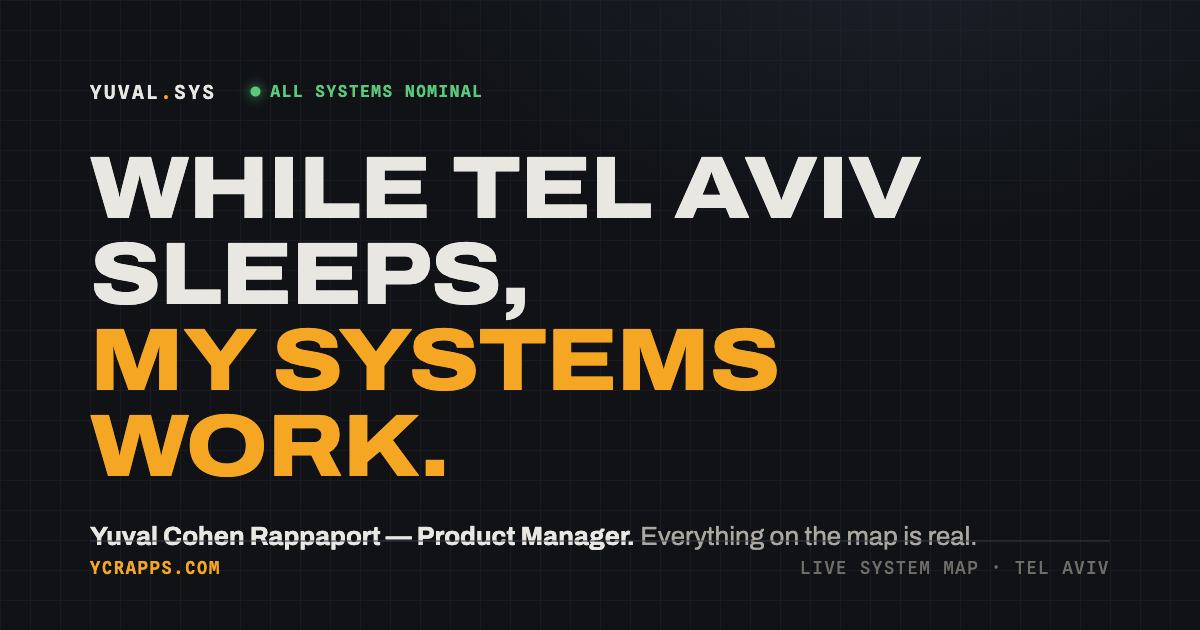
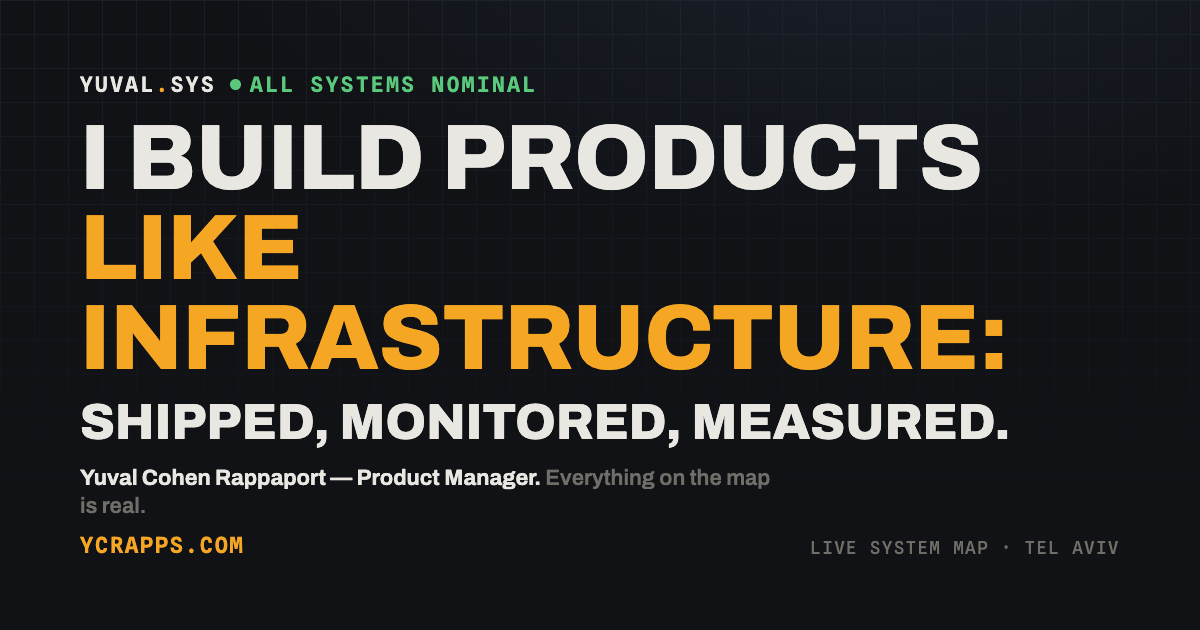
fix(seo): regenerate og.png to current hero + cache-bust the image URL
Link-preview card now matches the live YUVAL.SYS hero ('I build products
like infrastructure: shipped, monitored, measured') instead of the old
tagline. Bumped og:image/twitter:image to ?v=2 so social platforms
(WhatsApp/LinkedIn) re-fetch instead of serving a stale cached preview.
Reproducible source kept in scripts/og-card.html (rsync-excluded).

Changed region(s): [[0.0617, 0.1206, 0.925, 0.9349]]

diff --git a/scripts/og-card.html b/scripts/og-card.html
@@ -1,0 +1,62 @@
+<!doctype html>
+<html lang="en">
+<head>
+<meta charset="utf-8">
+<link rel="preconnect" href="https://fonts.googleapis.com">
+<link rel="preconnect" href="https://fonts.gstatic.com" crossorigin>
+<link href="https://fonts.googleapis.com/css2?family=Archivo:wght@600;700;800&family=Spline+Sans+Mono:wght@500;600&display=swap" rel="stylesheet">
+<style>
+  :root{
+    --bg:#101216; --bg-deep:#0B0D10; --line:#262B35; --tx:#E9E7E1;
+    --tx-mute:#6F6E68; --amber:#F5A623; --green:#5BC97C;
+    --sans:'Archivo',sans-serif; --mono:'Spline Sans Mono',monospace;
+  }
+  *{margin:0;padding:0;box-sizing:border-box;}
+  html,body{width:1200px;height:630px;}
+  .card{
+    width:1200px;height:630px;position:relative;overflow:hidden;
+    background:
+      radial-gradient(1100px 520px at 72% -12%, #1A1F29 0%, transparent 60%),
+      var(--bg);
+    padding:72px 80px;display:flex;flex-direction:column;justify-content:space-between;
+    color:var(--tx);
+  }
+  .card::before{
+    content:'';position:absolute;inset:0;
+    background-image:linear-gradient(var(--line) 1px,transparent 1px),linear-gradient(90deg,var(--line) 1px,transparent 1px);
+    background-size:34px 34px;opacity:.5;mask-image:linear-gradient(180deg,#000 0%,transparent 78%);
+  }
+  .row{position:relative;z-index:1;}
+  .top{display:flex;align-items:center;gap:14px;font-family:var(--mono);font-weight:600;font-size:21px;letter-spacing:.12em;}
+  .top .sys{color:var(--tx);} .top .dot{color:var(--amber);}
+  .top .stat{color:var(--green);display:inline-flex;align-items:center;gap:9px;}
+  .top .led{width:11px;height:11px;border-radius:50%;background:var(--green);display:inline-block;}
+  .head{font-family:var(--sans);font-weight:800;line-height:.98;letter-spacing:-.01em;text-transform:uppercase;}
+  .head .l1{font-size:92px;color:var(--tx);}
+  .head .l2{font-size:92px;color:var(--amber);}
+  .head .l3{font-size:50px;color:var(--tx);margin-top:14px;letter-spacing:.005em;}
+  .foot{display:flex;align-items:flex-end;justify-content:space-between;gap:40px;}
+  .foot .who{font-family:var(--sans);font-size:22px;font-weight:700;line-height:1.3;}
+  .foot .who .real{color:var(--tx-mute);font-weight:600;}
+  .foot .url{font-family:var(--mono);font-weight:600;font-size:22px;letter-spacing:.08em;color:var(--amber);margin-top:12px;}
+  .foot .tag{font-family:var(--mono);font-size:17px;letter-spacing:.1em;color:var(--tx-mute);text-transform:uppercase;text-align:right;white-space:nowrap;flex:0 0 auto;}
+</style>
+</head>
+<body>
+  <div class="card">
+    <div class="row top"><span class="sys">YUVAL<span class="dot">.</span>SYS</span><span class="stat"><span class="led"></span>ALL SYSTEMS NOMINAL</span></div>
+    <div class="row head">
+      <div class="l1">I build products</div>
+      <div class="l2">like infrastructure:</div>
+      <div class="l3">Shipped, monitored, measured.</div>
+    </div>
+    <div class="row foot">
+      <div>
+        <div class="who">Yuval Cohen Rappaport — Product Manager. <span class="real">Everything on the map is real.</span></div>
+        <div class="url">YCRAPPS.COM</div>
+      </div>
+      <div class="tag">Live system map · Tel Aviv</div>
+    </div>
+  </div>
+</body>
+</html>

diff --git a/index.html b/index.html
@@ -13,14 +13,14 @@
   <meta property="og:description" content="PM specialized in integrating AI into the product lifecycle. Everything on this site is real and running. Tel Aviv.">
   <meta property="og:url" content="https://ycrapps.com/">
   <meta property="og:site_name" content="ycrapps.com">
-  <meta property="og:image" content="https://ycrapps.com/og.png">
+  <meta property="og:image" content="https://ycrapps.com/og.png?v=2">
   <meta property="og:image:width" content="1200">
   <meta property="og:image:height" content="630">
 
   <meta name="twitter:card" content="summary_large_image">
   <meta name="twitter:title" content="Yuval Cohen Rappaport — Product Manager">
   <meta name="twitter:description" content="PM specialized in integrating AI into the product lifecycle. Everything on this site is real and running. Tel Aviv.">
-  <meta name="twitter:image" content="https://ycrapps.com/og.png">
+  <meta name="twitter:image" content="https://ycrapps.com/og.png?v=2">
 
   <link rel="canonical" href="https://ycrapps.com/">
   <link rel="icon" href="/favicon.ico">
